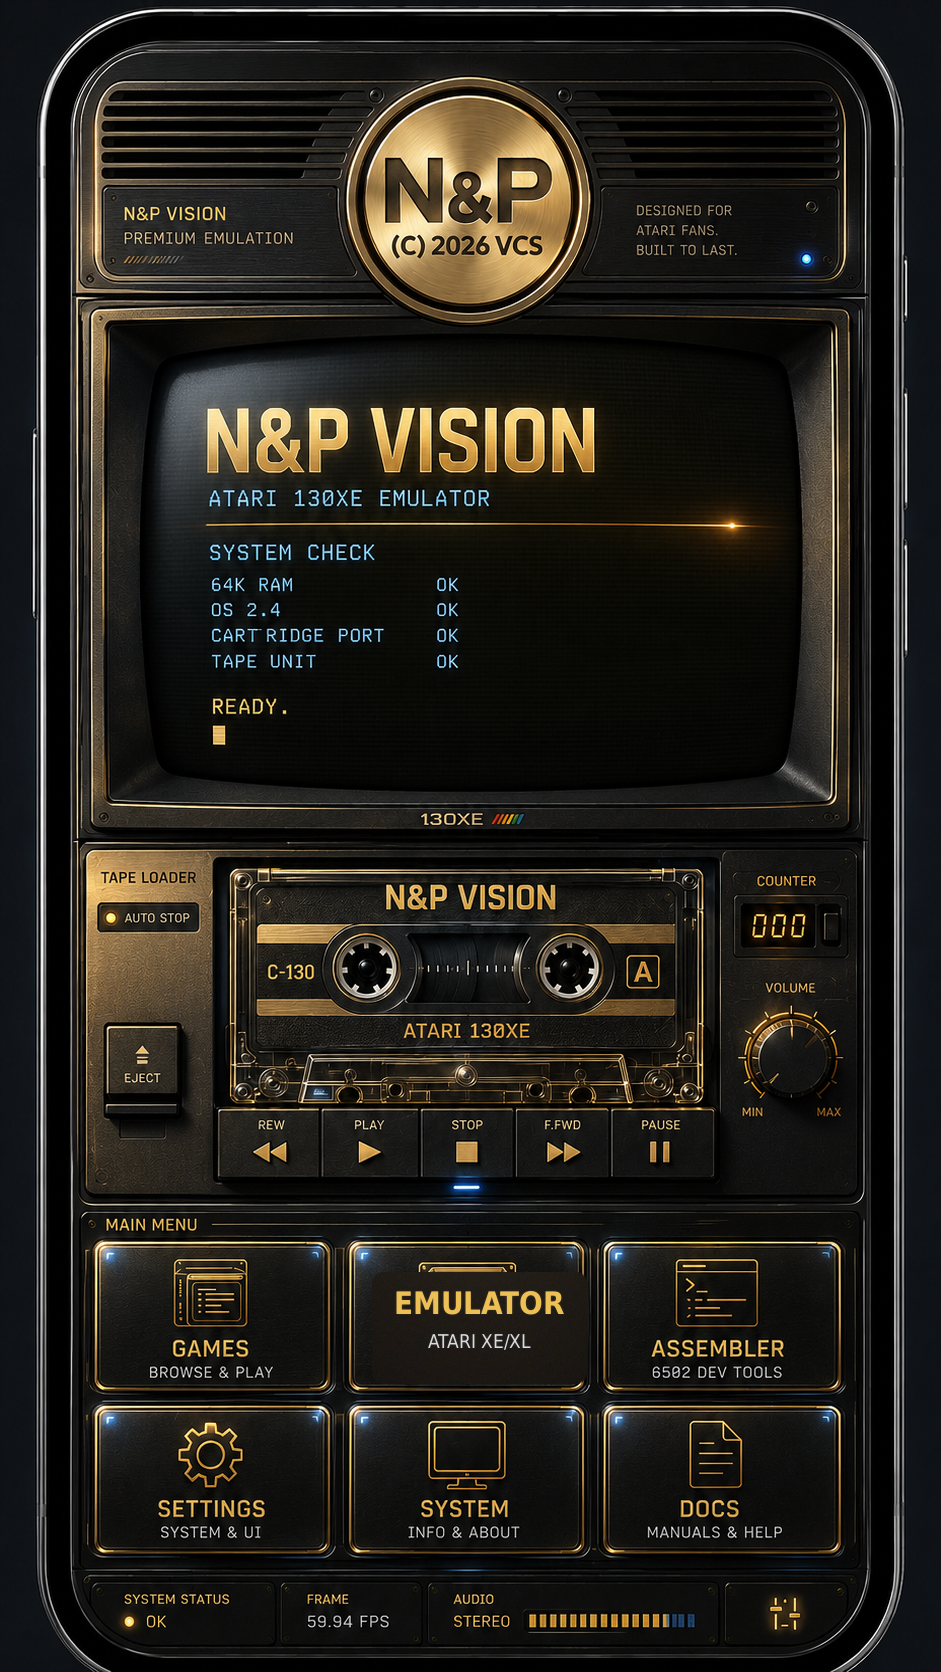
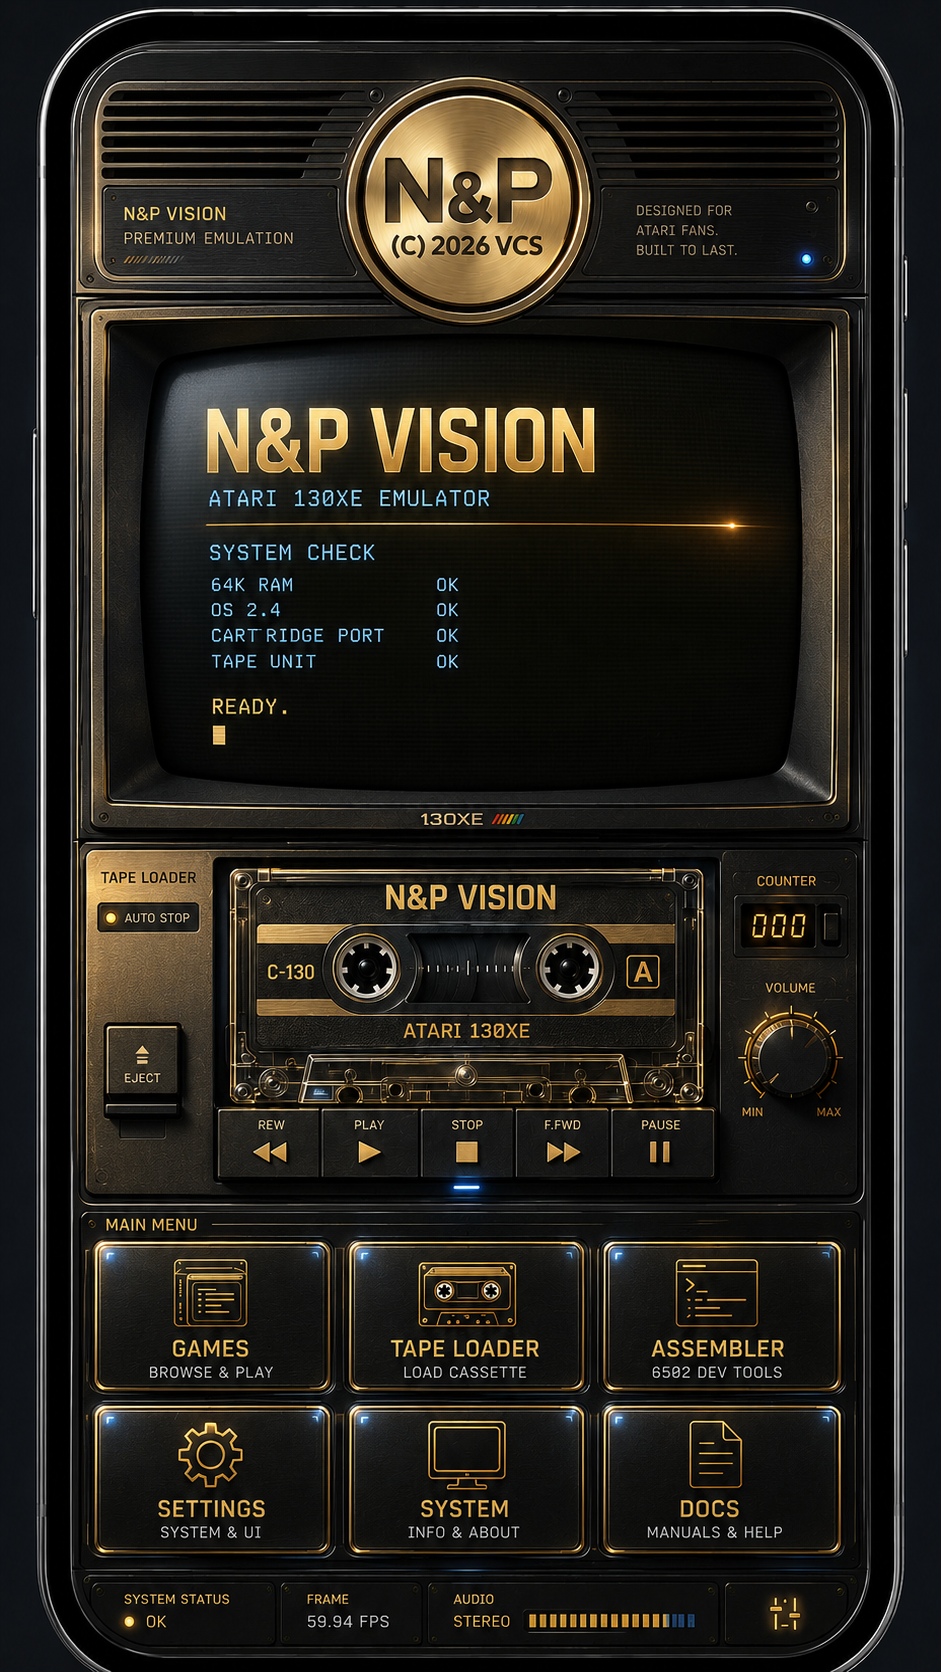
AtariHelp_EMU10_BUILD2FR_FP_ZPET_TAPE_PLAYLIST_SYSTEM_EMULATOR_overlay

Changed region(s): [[0.4006, 0.7464, 0.6472, 0.8397]]

diff --git a/app/src/main/assets/index.html b/app/src/main/assets/index.html
@@ -37,9 +37,9 @@ body{display:flex;justify-content:center;align-items:flex-start;overflow-x:hidde
 #introMp3ReelR{left:56.35%;top:55.88%;}
 .introMp3Reel:before,.introMp3Reel:after{content:"";position:absolute;left:50%;top:50%;width:62%;height:5%;margin-left:-31%;margin-top:-2.5%;background:rgba(255,218,130,.38);border-radius:5px;box-shadow:0 0 7px rgba(255,205,100,.7);}
 .introMp3Reel:after{transform:rotate(66deg);}
-.stage.mp3play .introMp3Reel{display:block;animation:introSpin 1.05s linear infinite;}
-.stage.mp3ffwd .introMp3Reel{display:block;animation:introSpin .26s linear infinite;}
-.stage.mp3rew .introMp3Reel{display:block;animation:introSpin .26s linear infinite reverse;}
+.stage.mp3,.wavplay .introMp3Reel{display:block;animation:introSpin 1.05s linear infinite;}
+.stage.mp3,.wavffwd .introMp3Reel{display:block;animation:introSpin .26s linear infinite;}
+.stage.mp3,.wavrew .introMp3Reel{display:block;animation:introSpin .26s linear infinite reverse;}
 @keyframes introSpin{to{transform:rotate(360deg)}}
 #introMp3SeekHud{position:absolute;left:37.5%;top:61.2%;width:25%;height:2.4%;z-index:14;display:none;align-items:center;justify-content:center;color:#ffe08a;background:rgba(0,0,0,.62);border:1px solid rgba(244,197,92,.48);border-radius:8px;font:900 clamp(10px,1.9vw,18px)/1 "Courier New",monospace;text-shadow:0 0 10px rgba(255,193,65,.9);pointer-events:none;}
 #introMp3SeekHud.show{display:flex;animation:introSeekPulse .25s steps(2,end) infinite;}
@@ -60,7 +60,7 @@ body{display:flex;justify-content:center;align-items:flex-start;overflow-x:hidde
 #introHelpOverlay li{margin:5px 0;}
 #introHelpClose{width:100%;padding:12px;border:0;border-radius:10px;background:#d9b25c;color:#111;font:700 14px "Courier New",monospace;}
 
-/* BUILD2AP: MP3 prehravac je jasny: DOWNLOAD vybere hudbu, PLAY jen hraje/pokracuje, PLAYLIST ukaze vybrane skladby. */
+/* BUILD2FR: TAPE LOADER otevira playlist pro uvodni kazetak. Picker bere MP3 i WAV. PLAY jen hraje/pokracuje. */
 .introMiniBtn{position:absolute;z-index:15;border:1px solid rgba(244,197,92,.48);border-radius:8px;background:linear-gradient(180deg,#30333a,#0b0d10);color:#f3c465;font:800 clamp(7px,1.25vw,12px)/1 "Courier New",monospace;letter-spacing:.03em;text-align:center;box-shadow:inset 0 1px 0 rgba(255,255,255,.12),inset 0 -6px 10px rgba(0,0,0,.58),0 2px 0 #020304;padding:0 2px;}
 .introMiniBtn:active,.introMiniBtn.flash{transform:translateY(2px) scale(.985);box-shadow:inset 0 9px 18px rgba(0,0,0,.84),0 0 12px rgba(255,190,65,.18);}
 #introMp3DownloadBtn{left:22.4%;top:71.74%;width:20.4%;height:2.35%;}
@@ -148,7 +148,7 @@ body{display:flex;justify-content:center;align-items:flex-start;overflow-x:hidde
   <div class="crt-sweep"></div><div class="led-blue"></div>
   <div class="eq"><i></i><i></i><i></i><i></i><i></i><i></i><i></i><i></i></div>
   <div id="introMp3ReelL" class="introMp3Reel"></div><div id="introMp3ReelR" class="introMp3Reel"></div>
-  <div id="introMp3SeekHud">MP3 &gt;&gt;</div><div id="introMp3Counter">000</div><div id="introVolNeedle"></div><div id="introVolValue">VOL 100%</div><button id="introVolHot" class="hit" type="button" aria-label="MP3 volume">VOLUME</button><div id="introMp3Hud" aria-hidden="true"></div><button id="introMp3DownloadBtn" class="introMiniBtn" type="button" aria-label="MP3 PRIDAT z mobilu - skladby se pripoji do playlistu">MP3 PRIDAT</button><button id="introMp3ListBtn" class="introMiniBtn" type="button" aria-label="Zobrazit MP3 playlist">PLAYLIST</button><div id="introMp3Now">MP3: PRIDAT</div><button id="introHelpBtn" type="button" aria-label="HELP - napoveda ke vsem tlacitkum">HELP</button>
+  <div id="introMp3SeekHud">MP3 &gt;&gt;</div><div id="introMp3Counter">000</div><div id="introVolNeedle"></div><div id="introVolValue">VOL 100%</div><button id="introVolHot" class="hit" type="button" aria-label="MP3 volume">VOLUME</button><div id="introMp3Hud" aria-hidden="true"></div><button id="introMp3DownloadBtn" class="introMiniBtn" type="button" aria-label="MP3/WAV PRIDAT z mobilu - soubory se pripoji do playlistu">MP3/WAV</button><button id="introMp3ListBtn" class="introMiniBtn" type="button" aria-label="Zobrazit MP3 playlist">PLAYLIST</button><div id="introMp3Now">MP3/WAV</div><button id="introHelpBtn" type="button" aria-label="HELP - napoveda ke vsem tlacitkum">HELP</button>
   <button id="introTapeRew" class="hit introTapeBtn" type="button" aria-label="MP3 REWIND">REWIND</button>
   <button id="introTapePlay" class="hit introTapeBtn" type="button" aria-label="MP3 PLAY z mobilu">PLAY MP3</button>
   <button id="introTapeStop" class="hit introTapeBtn" type="button" aria-label="MP3 STOP">STOP</button>
@@ -156,20 +156,21 @@ body{display:flex;justify-content:center;align-items:flex-start;overflow-x:hidde
   <button id="introTapePause" class="hit introTapeBtn" type="button" aria-label="MP3 PAUSE">PAUSE</button>
   <button id="introTapeEject" class="hit introTapeBtn" type="button" aria-label="MP3 EJECT reset playlistu">EJECT MP3</button>
   <a id="goGames" class="hit" href="https://atarihelp.eu/?page_id=207" aria-label="Games - AtariHelp.eu hry ke stazeni">GAMES</a>
-  <a id="goTape" class="hit cleanHit" href="emu/index.html" aria-label="Emulator - spustit Atari 130XE"></a>
+  <a id="goTape" class="hit cleanHit" href="#" aria-label="Tape loader - otevrit playlist MP3/WAV pro uvodni kazetak"></a>
   <a id="goAsm" class="hit" href="https://atarihelp.eu/?page_id=614" aria-label="Assembler">ASSEMBLER</a>
   <a id="goSettings" class="hit" href="https://atarihelp.eu/" aria-label="Settings - AtariHelp.eu hlavni stranka">SETTINGS</a>
-  <a id="goSystem" class="hit" href="https://atarihelp.eu/?page_id=786" aria-label="System - informace o emulatoru">SYSTEM</a>
+  <a id="goSystem" class="hit" href="emu/index.html" aria-label="System - vstup do emulatoru Atari 130XE">SYSTEM</a>
   <a id="goDocs" class="hit" href="https://atarihelp.eu/?page_id=50" aria-label="Docs">DOCS</a>
 </main>
 
 <div id="introPlaylistOverlay" aria-hidden="true">
   <div class="panel">
-    <h2>MP3 PLAYLIST</h2>
-    <p id="introPlaylistInfo">Zatim neni vybrana zadna hudba. Stiskni MP3 PRIDAT a v Downloads vyber MP3. Kdyz NOX vezme jen jednu, zmackni MP3 PRIDAT znovu a pridas dalsi.</p>
+    <h2>MP3/WAV PLAYLIST</h2>
+    <p id="introPlaylistInfo">Zatim neni vybrana zadna hudba. Stiskni MP3/WAV PRIDAT a v mobilu vyber MP3 nebo WAV. Kdyz NOX vezme jen jeden soubor, zmackni znovu a pridas dalsi.</p>
     <div id="introPlaylistItems"></div>
-    <button id="introPlaylistDownload" type="button">MP3 PRIDAT / DOWNLOAD</button>
+    <button id="introPlaylistDownload" type="button">MP3/WAV PRIDAT</button>
     <button id="introPlaylistEject" type="button">EJECT / VYMAZAT PLAYLIST</button>
+    <button id="introPlaylistYoutube" type="button">YOUTUBE</button>
     <button id="introPlaylistClose" type="button">ZAVRIT PLAYLIST</button>
   </div>
 </div>
@@ -241,9 +242,9 @@ function setMode(mode){
 function updateNow(){
   if(mp3Now){
     if(playlist.length>0 && playlistIndex>=0){
-      mp3Now.textContent='MP3 '+(playlistIndex+1)+'/'+playlist.length+': '+(audioName||'hudba.mp3');
+      mp3Now.textContent='MP3 '+(playlistIndex+1)+'/'+playlist.length+': '+(audioName||'hudba.mp3,.wav');
     } else {
-      mp3Now.textContent='MP3: PRIDAT';
+      mp3Now.textContent='MP3/WAV';
     }
   }
 }
@@ -254,7 +255,7 @@ function updatePlaylistUi(){
     if(incomingPlaylist){
       playlistInfo.textContent='NACITAM MP3... prijato '+pendingPlaylist.length+' nova/nove. Uz v playlistu: '+playlist.length+'. Po dokonceni se skladby pripoji za konec.';
     } else {
-      playlistInfo.textContent = playlist.length ? ('Vybrano '+playlist.length+' MP3. MP3 PRIDAT prida dalsi skladbu/skladby za konec. EJECT vymaze playlist.') : 'Playlist je prazdny. Stiskni MP3 PRIDAT a v Downloads vyber MP3. Kdyz NOX vezme jen jednu, stiskni MP3 PRIDAT znovu.';
+      playlistInfo.textContent = playlist.length ? ('Vybrano '+playlist.length+' MP3/WAV. MP3/WAV PRIDAT prida dalsi soubor/soubory za konec. EJECT vymaze playlist.') : 'Playlist je prazdny. Stiskni MP3/WAV PRIDAT a v mobilu vyber MP3 nebo WAV. Kdyz NOX vezme jen jednu, stiskni MP3 PRIDAT znovu.';
     }
   }
   if(!playlistItems) return;
@@ -263,7 +264,7 @@ function updatePlaylistUi(){
     var empty=document.createElement('div'); empty.textContent='Playlist je prazdny.'; empty.style.color='#8fd8ff'; empty.style.padding='8px 0'; playlistItems.appendChild(empty); return;
   }
   playlist.forEach(function(t,i){
-    var b=document.createElement('button'); b.type='button'; b.textContent=(i+1)+'. '+(t.name||'hudba.mp3');
+    var b=document.createElement('button'); b.type='button'; b.textContent=(i+1)+'. '+(t.name||'hudba.mp3,.wav');
     if(i===playlistIndex) b.className='active';
     b.addEventListener('click',function(){ setTrack(i,true); if(playlistOverlay){ playlistOverlay.classList.remove('open'); playlistOverlay.setAttribute('aria-hidden','true'); } });
     playlistItems.appendChild(b);
@@ -271,7 +272,7 @@ function updatePlaylistUi(){
   if(incomingPlaylist){
     pendingPlaylist.forEach(function(t,i){
       var b=document.createElement('button'); b.type='button'; b.disabled=true; b.className='pending';
-      b.textContent='nacitam: '+(playlist.length+i+1)+'. '+(t.name||'hudba.mp3');
+      b.textContent='nacitam: '+(playlist.length+i+1)+'. '+(t.name||'hudba.mp3,.wav');
       playlistItems.appendChild(b);
     });
   }
@@ -321,16 +322,16 @@ function revokePlaylist(){
   playlist=[]; playlistIndex=-1; audioUrl=''; audioName='';
 }
 function createTrack(name,u8){
-  if(!/\.mp3$/i.test(name||'')) { log('MP3 PLAYER: vyber prosim jen MP3 soubor, ne '+(name||'neznamy soubor')+'.'); return null; }
-  var url=URL.createObjectURL(new Blob([u8],{type:'audio/mpeg'}));
-  return {name:name||'hudba.mp3', url:url};
+  if(!/\.(mp3|wav)$/i.test(name||'')) { log('MP3 PLAYER: vyber prosim jen MP3 nebo WAV soubor, ne '+(name||'neznamy soubor')+'.'); return null; }
+  var url=URL.createObjectURL(new Blob([u8],{type:'audio/*'}));
+  return {name:name||'hudba.mp3,.wav', url:url};
 }
 function setTrack(index,autoplay){
   if(index<0 || index>=playlist.length) return;
   try{ if(audio) audio.pause(); }catch(e){}
   playlistIndex=index;
   var tr=playlist[playlistIndex];
-  audioName=tr.name||'hudba.mp3'; audioUrl=tr.url;
+  audioName=tr.name||'hudba.mp3,.wav'; audioUrl=tr.url;
   if(!audio) audio=new Audio();
   audio.volume=introVolume;
   audio.pause(); audio.src=audioUrl; audio.currentTime=0;
@@ -396,10 +397,10 @@ window.AHLOCAL_MP3_PLAYLIST_END=function(){
     else { log('MP3 playlist: nic nevybrano.'); updatePlaylistUi(); }
   }catch(e){ incomingPlaylist=false; pendingPlaylist=[]; log('MP3 playlist chyba — '+e.message); updatePlaylistUi(); }
 };
-window.AHLOCAL_AUDIO_BEGIN=function(name){ window.__introMp3Name=name||'hudba.mp3'; window.__introMp3Parts=[]; log('MP3: prijimam z Android pickeru — '+window.__introMp3Name); };
+window.AHLOCAL_AUDIO_BEGIN=function(name){ window.__introMp3Name=name||'hudba.mp3,.wav'; window.__introMp3Parts=[]; log('MP3: prijimam z Android pickeru — '+window.__introMp3Name); };
 window.AHLOCAL_AUDIO_PART=function(b64){ (window.__introMp3Parts||(window.__introMp3Parts=[])).push(b64); };
 window.AHLOCAL_AUDIO_END=function(){
-  try{ var bin=atob((window.__introMp3Parts||[]).join('')), u8=new Uint8Array(bin.length); for(var i=0;i<bin.length;i++)u8[i]=bin.charCodeAt(i)&255; loadBytes(window.__introMp3Name||'hudba.mp3',u8); }
+  try{ var bin=atob((window.__introMp3Parts||[]).join('')), u8=new Uint8Array(bin.length); for(var i=0;i<bin.length;i++)u8[i]=bin.charCodeAt(i)&255; loadBytes(window.__introMp3Name||'hudba.mp3,.wav',u8); }
   catch(e){ log('MP3 prijem selhal — '+e.message); }
   window.__introMp3Parts=[];
 };
@@ -407,7 +408,7 @@ function pickMp3(){
   log('MP3 PRIDAT: oteviram Downloads. Vybrana MP3 se PRIDA do playlistu, EJECT maze playlist.');
   try{ if(window.AHPICK && window.AHPICK.pickMp3){ window.AHPICK.pickMp3(); return; } }catch(e){}
   try{ if(window.AHPICK && window.AHPICK.pickAudio){ window.AHPICK.pickAudio(); return; } }catch(e){}
-  var inp=document.createElement('input'); inp.type='file'; inp.accept='.mp3,audio/mpeg,audio/mp3'; inp.multiple=true; inp.style.display='none'; document.body.appendChild(inp);
+  var inp=document.createElement('input'); inp.type='file'; inp.accept='.mp3,.wav,audio/*,audio/mp3'; inp.multiple=true; inp.style.display='none'; document.body.appendChild(inp);
   inp.onchange=function(){
     var files=Array.prototype.slice.call((inp.files||[])); inp.remove();
     if(!files.length){log('MP3: soubor nevybran.'); return;}
@@ -463,5 +464,60 @@ log('BUILD2AQ: MP3 PRIDAT nyni nacita/pripojuje skladby do playlistu; EJECT maze
 log('BUILD2FL: intro EMULATOR a ASSEMBLER jsou prekreslene jako stejne karty v radku MAIN MENU; HTML je jen neviditelna hit-zona.');
 })();
 </script>
+
+/* BUILD2FR: TAPE LOADER karta = otevrit playlist okno pro uvodni kazetak. SYSTEM = emulator. */
+(function(){
+  function openIntroPlaylistPanel(){
+    try{
+      var ov=document.getElementById('introPlaylistOverlay');
+      var info=document.getElementById('introPlaylistInfo');
+      if(info && !info.getAttribute('data-build2fr')){
+        info.setAttribute('data-build2fr','1');
+        info.textContent='TAPE LOADER: tady si priprav playlist pro uvodni kazetak. Pouzij MP3/WAV PRIDAT, vyber MP3 nebo WAV z mobilu/NOX a potom PLAY na kazetaku.';
+      }
+      if(ov){
+        ov.classList.add('open');
+        ov.setAttribute('aria-hidden','false');
+      }
+      try{ if(typeof log==='function') log('TAPE LOADER BUILD2FR: otevreno playlist okno MP3/WAV pro uvodni kazetak.'); }catch(e){}
+    }catch(e){
+      try{ console.log('[INTRO MP3/WAV] TAPE LOADER panel chyba: '+e.message); }catch(_){}
+    }
+  }
+  function hookBuild2fr(){
+    var tape=document.getElementById('goTape');
+    if(tape && !tape.getAttribute('data-build2fr-hook')){
+      tape.setAttribute('data-build2fr-hook','1');
+      tape.setAttribute('href','#');
+      tape.addEventListener('click',function(ev){
+        ev.preventDefault();
+        ev.stopPropagation();
+        openIntroPlaylistPanel();
+        return false;
+      },true);
+    }
+    var sys=document.getElementById('goSystem');
+    if(sys && !sys.getAttribute('data-build2fr-system')){
+      sys.setAttribute('data-build2fr-system','1');
+      sys.setAttribute('href','emu/index.html');
+    }
+    var yt=document.getElementById('introPlaylistYoutube');
+    if(yt && !yt.getAttribute('data-build2fr-youtube')){
+      yt.setAttribute('data-build2fr-youtube','1');
+      yt.addEventListener('click',function(ev){
+        ev.preventDefault();
+        try{
+          window.open('https://www.youtube.com/results?search_query=AtariHelp+NaP+Studio', '_blank');
+          if(typeof log==='function') log('YOUTUBE BUILD2FR: otevren odkaz na YouTube vyhledani AtariHelp NaP Studio.');
+        }catch(e){
+          location.href='https://www.youtube.com/results?search_query=AtariHelp+NaP+Studio';
+        }
+      });
+    }
+  }
+  if(document.readyState==='loading') document.addEventListener('DOMContentLoaded',hookBuild2fr);
+  else hookBuild2fr();
+})();
+
 </body>
 </html>
